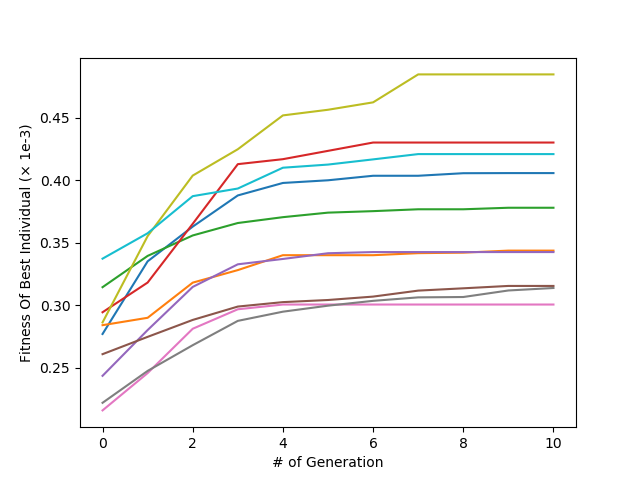
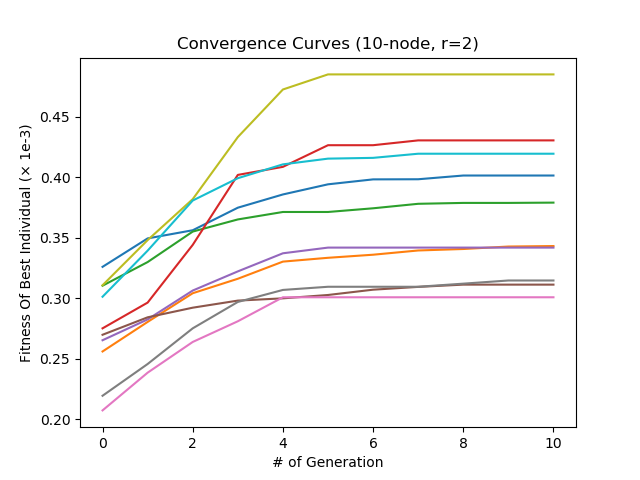
update

diff --git a/solveFLP.py b/solveFLP.py
@@ -6,6 +6,18 @@ from instanceGeneration import Instances
 import matplotlib.pyplot as plt
 from scipy.signal import savgol_filter
 import time
+import xlwt
+
+
+def funWriteExcel(excelName, a_2d_fEveInsEveRunObjValue):
+    rowNum = a_2d_fEveInsEveRunObjValue.shape[0]
+    columnNum = a_2d_fEveInsEveRunObjValue.shape[1]
+    workbook = xlwt.Workbook()  # 新建一个工作簿
+    sheet = workbook.add_sheet('sheet1')
+    for i in range(rowNum):
+        for j in range(columnNum):
+            sheet.write(i, j, a_2d_fEveInsEveRunObjValue[i][j])
+    workbook.save(excelName)
 
 
 def funGA():
@@ -23,7 +35,7 @@ def funGA():
     listfAveCPUTimeEveryIns = np.zeros((iInsNum,)).tolist()
     listiOptimalNumEveryIns = np.zeros((iInsNum,)).tolist()
     a_2d_fEveInsEveRunObjValue = np.zeros((iInsNum, iRunsNum))
-    textFile = open('E:\VSCodeSpace\PythonWorkspace\GAforFLP\\10-nodeInstances.txt', 'a')
+    textFile = open('E:\\VSCodeSpace\\PythonWorkspace\\GAforFLP\\10-nodeInsExperData.txt', 'a')
     plt.figure()
 
     f = open('10-nodeInstances', 'rb')
@@ -61,15 +73,18 @@ def funGA():
 
     plt.xlabel("# of Generation")
     plt.ylabel("Fitness Of Best Individual (× 1e-3)")
+    plt.title("Convergence Curves (10-node, r=2)")
     plt.savefig("10-node")
     # 将数据写入text文件
-    textFile.write('Average CPU time of 10 runs for each instance:\n')
+    textFile.write('\nAverage CPU time of 10 runs for each instance:\n')
     textFile.write(str(listfAveCPUTimeEveryIns))
     textFile.write('\n\nAverage fitness of 10 runs for each instance:\n')
     textFile.write(str(listfAveFitnessEveryIns))
     textFile.write('\n\nAverage objective value of 10 runs for each instance:\n')
     textFile.write(str(listfAveObjValueEveryIns))
-    np.savetxt("E:\VSCodeSpace\PythonWorkspace\GAforFLP\\10-nodeObjValueEveInsEveRun.txt", a_2d_fEveInsEveRunObjValue)
+    np.savetxt("E:\\VSCodeSpace\\PythonWorkspace\\GAforFLP\\10-nodeObjValueEveInsEveRun.txt", a_2d_fEveInsEveRunObjValue)
+    excelName = '10-nodeObjValueEveInsEveRun.xls'
+    funWriteExcel(excelName, a_2d_fEveInsEveRunObjValue)
 
 
 funGA()
